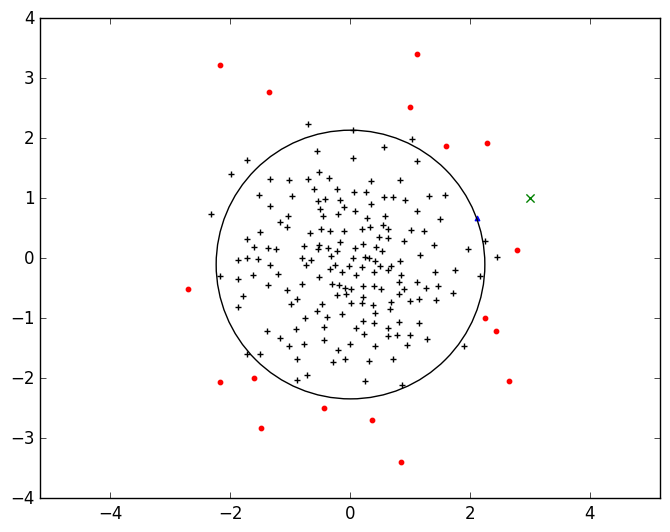
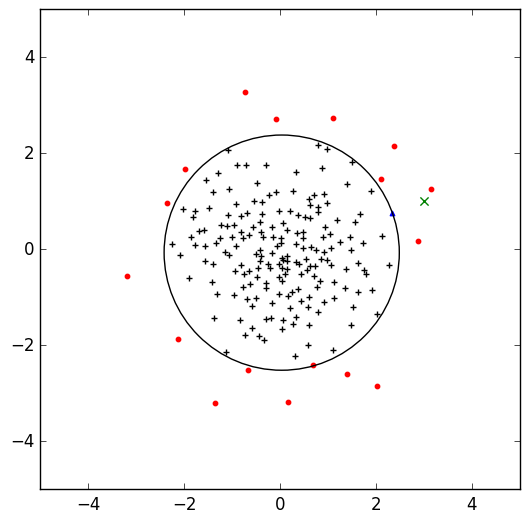
more pictures

diff --git a/experiments.py b/experiments.py
@@ -14,19 +14,19 @@ get_new_num.counter = 0
 
 def main():
 
-    file_name = 'test'
+    file_name = 'simpleattack-random-NNdefense'
     num_trials = 1
     method = 'random-out'
 #    method = 'nearest-out'
 
 #    defense_method = 'grid'
-#    defense_method = 'NN'
-    defense_method = 'none'
+    defense_method = 'NN'
+#    defense_method = 'none'
     
     radius = 2.45
     target = [3, 1]
     attacker_percentage = .25
-    max_iterations = 1000
+    max_iterations = 10000
     plot_num = max_iterations/10
     
     data_window = 200
